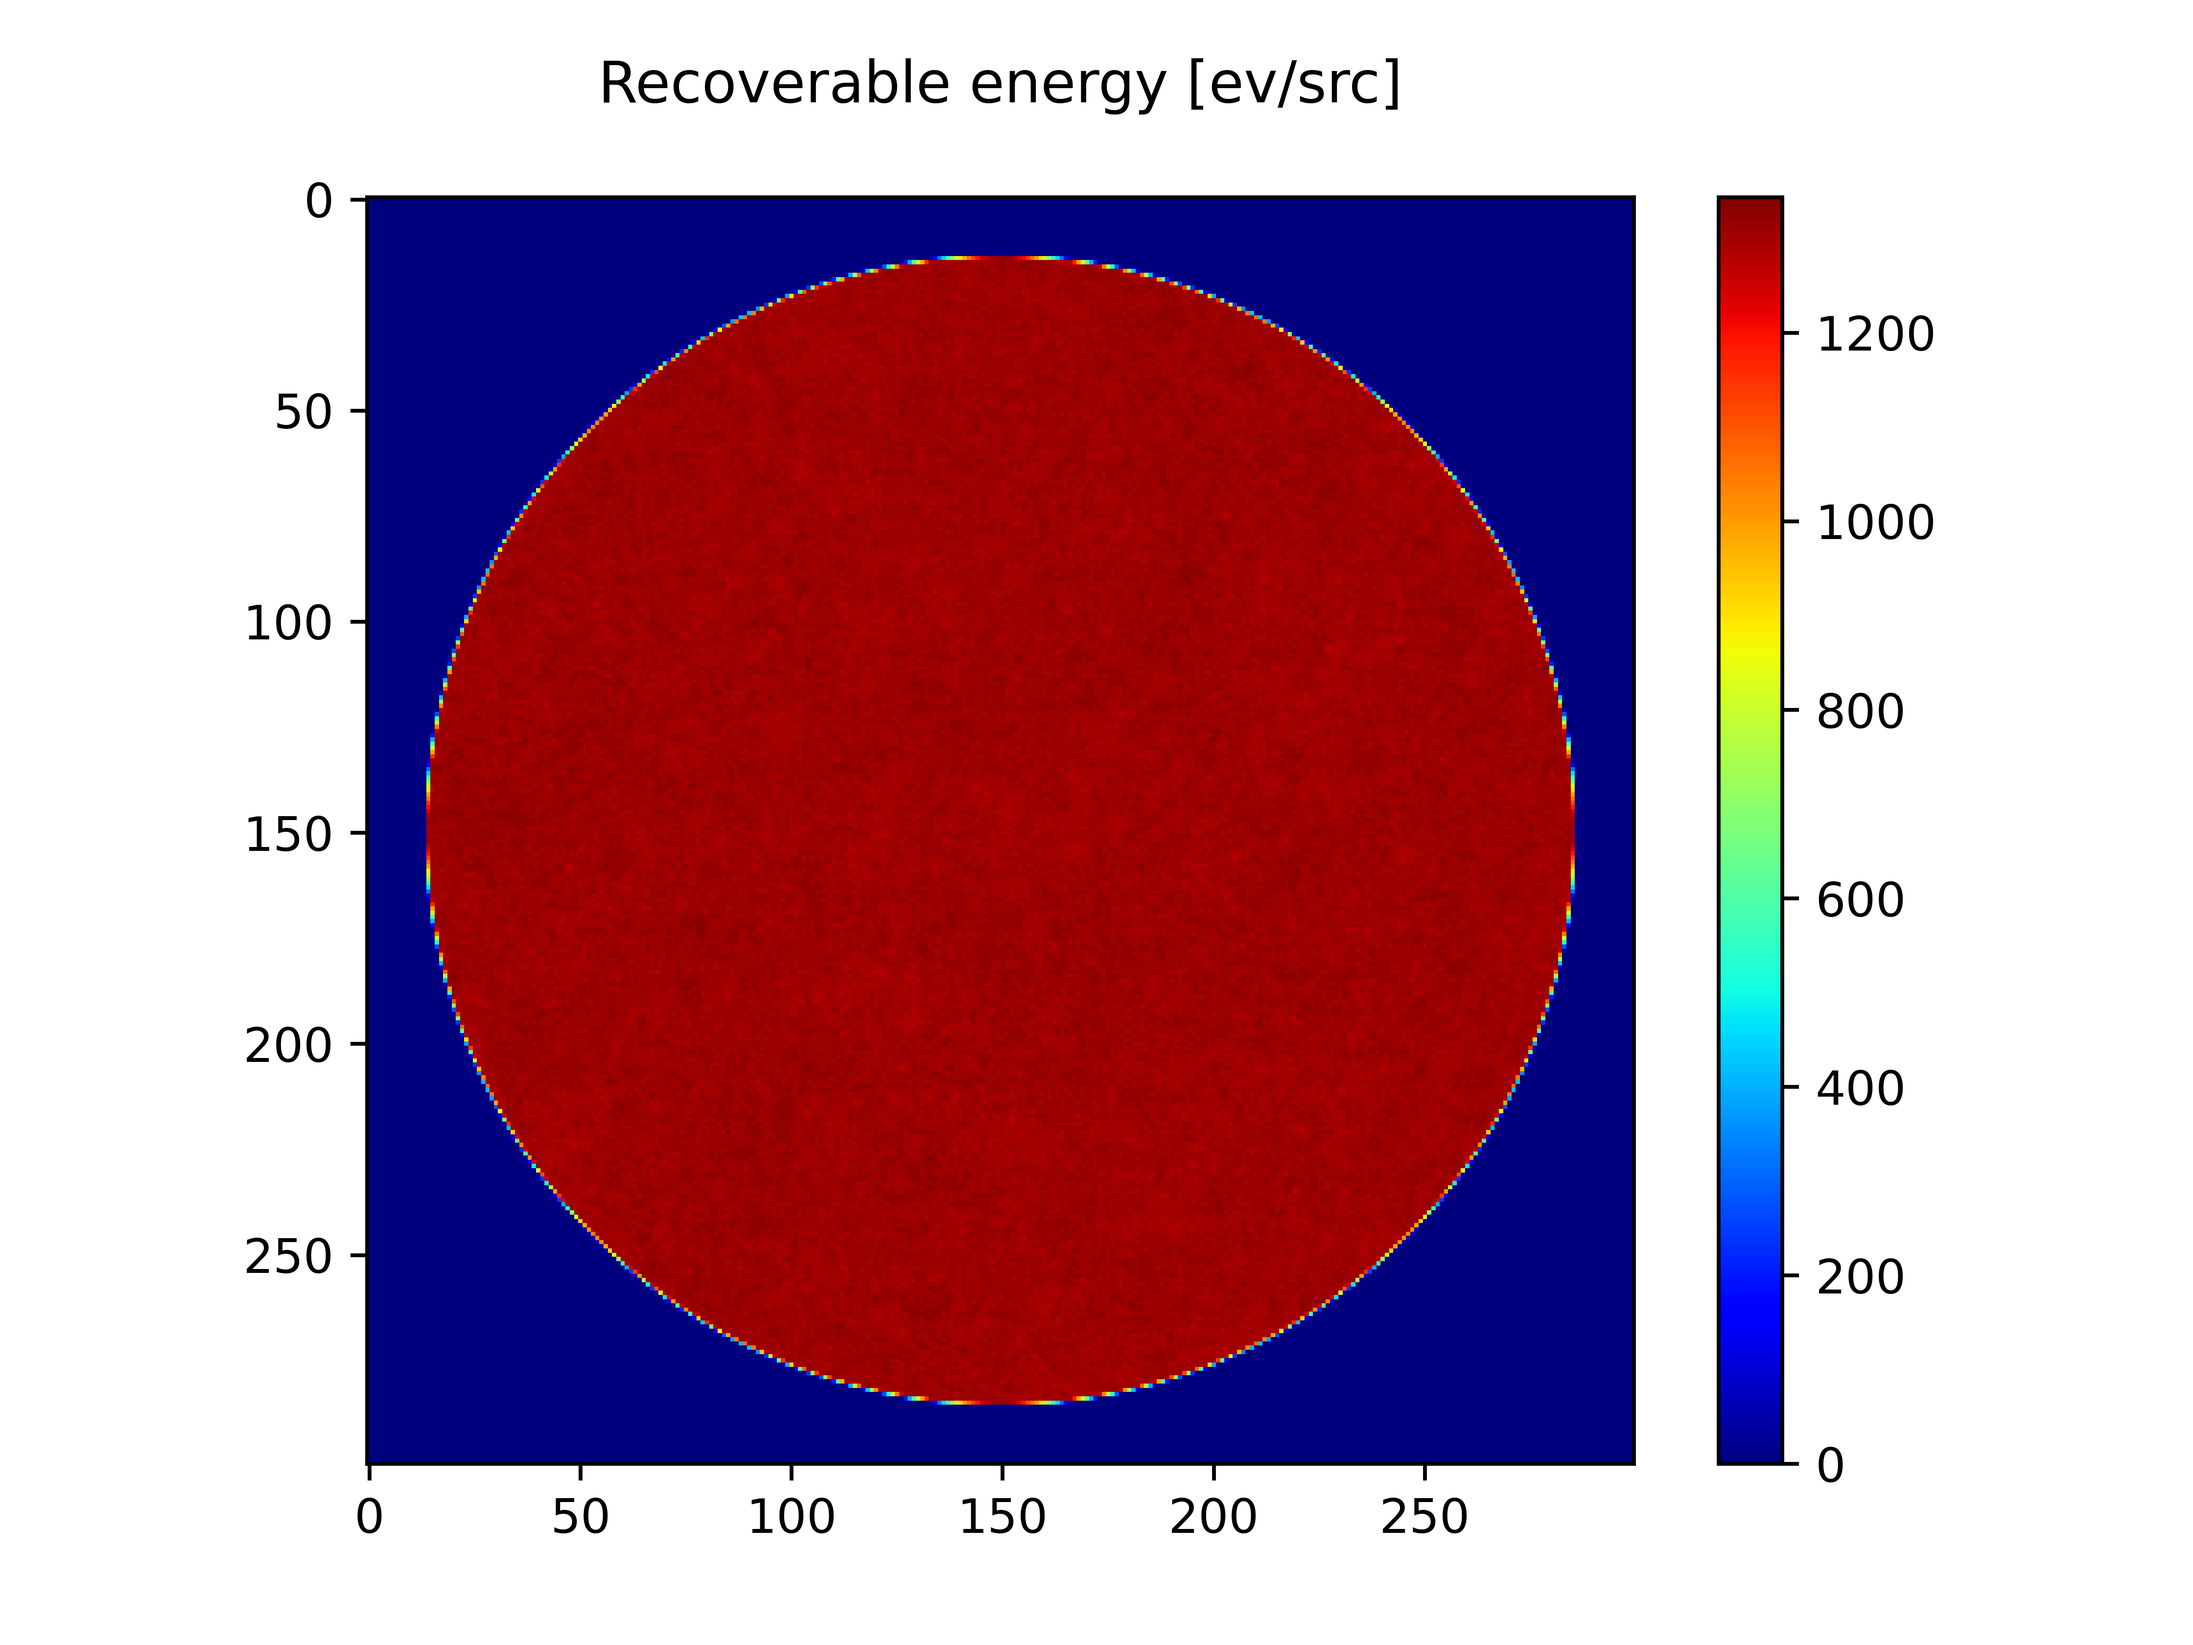
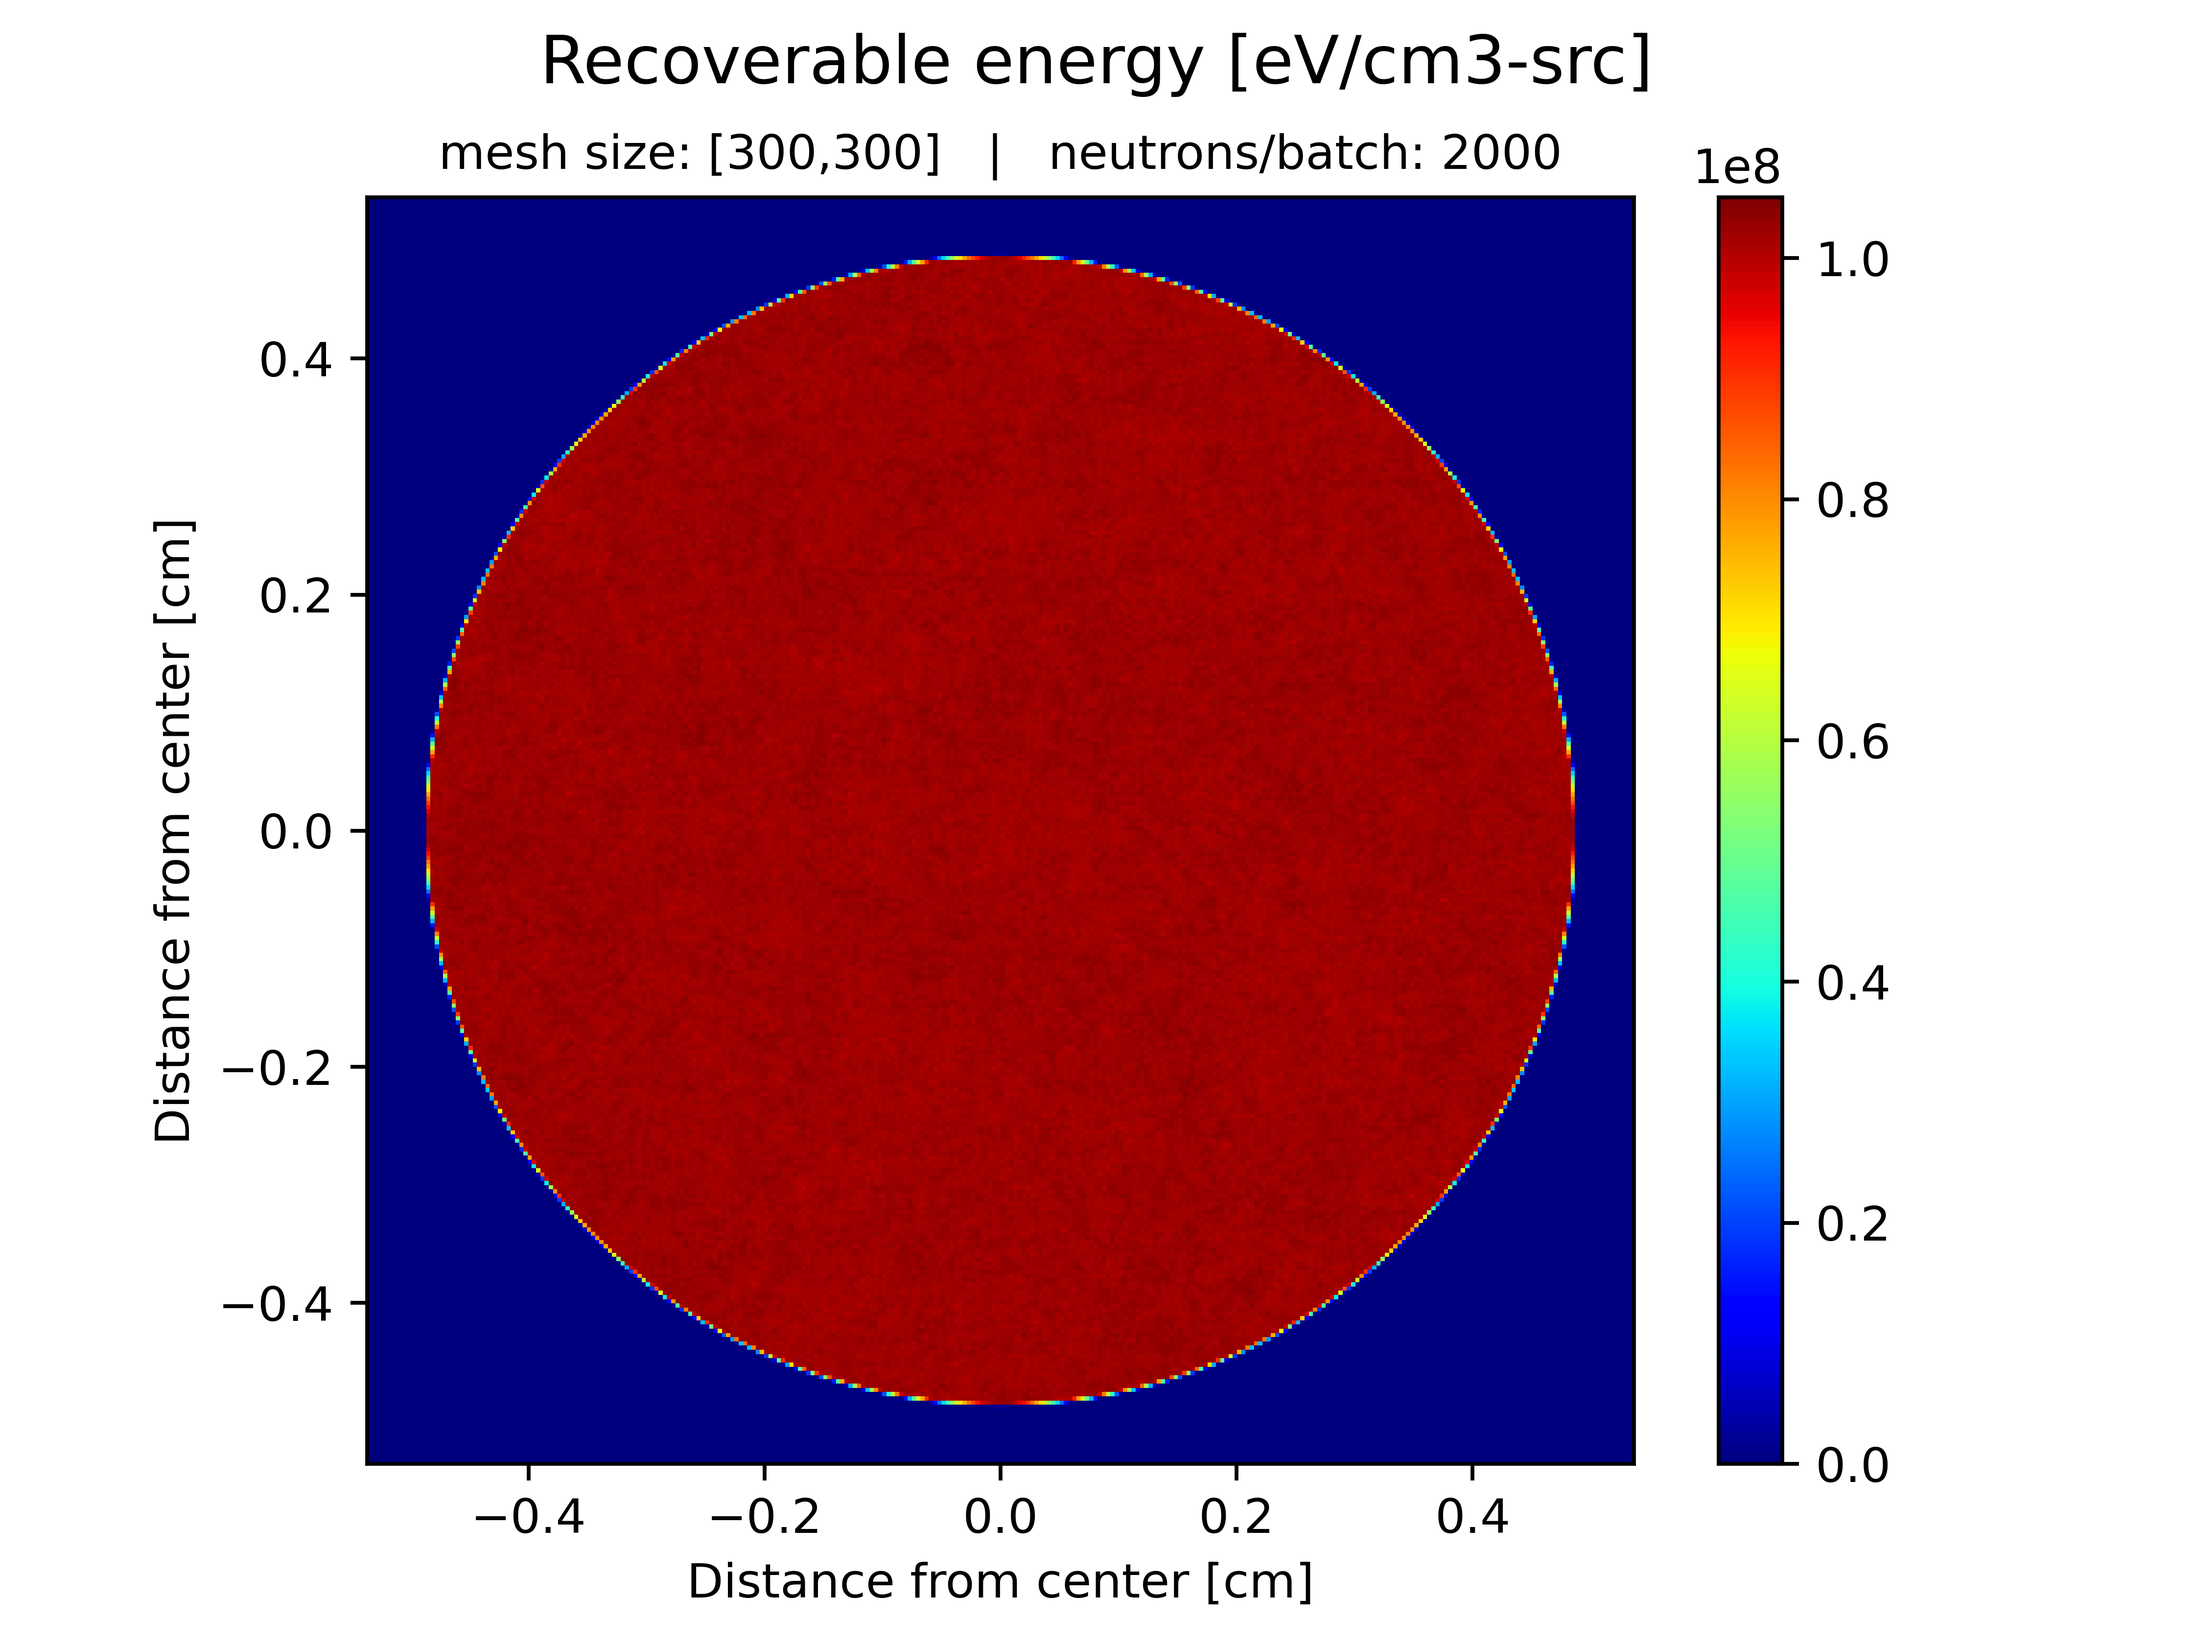
corrected units in SFR_pincell

diff --git a/SFR_pincell/main.py b/SFR_pincell/main.py
@@ -16,27 +16,52 @@ import math
 
 #=========================FUNCTIONS=============================
 
-def plot_radially(radial_data, xlabel, ylabel, title, diag=False, alpha=0.5):
+def mesh_plot(mesh_data,title,filename, reduced=False):
+    if reduced:
+        mesh_dim=red_mesh_dimension
+    else:
+        mesh_dim=mesh_dimension
+    plt.imshow(mesh_data, cmap='jet', origin='lower', extent = [-pitch/2,pitch/2,-pitch/2,pitch/2])
+    plt.suptitle(title,fontsize=14)
+    plt.title('mesh size: [{},{}]   |   neutrons/batch: {}'.format(mesh_dim,mesh_dim,neutrons_per_batch),fontsize=10)
+    plt.xlabel('Distance from center [cm]')
+    plt.ylabel('Distance from center [cm]')
+    plt.colorbar()
+    plt.savefig("images/plots/{}.png".format(filename), dpi=700)
+    plt.clf()
+
+
+def plot_radially(radial_data, ylabel, title, filename, diag=False, alpha=0.5):
     geom_image = mpimg.imread('images/geometry/side_view.ppm')
+    pitch_dim = pitch
+    mesh_dim = mesh_dimension
+    directory = 'horizontal'
     if diag:
         geom_image = mpimg.imread('images/geometry/side_diagonal_view.ppm')
+        pitch_dim = diagonal_pitch
+        directory = 'diagonal'
     fig, axs = plt.subplots(2,1, sharex=True, sharey=True, figsize=(15,10))
-    fig.suptitle('{}'.format(title))
-    axs[1].imshow(geom_image, alpha=alpha, origin='lower', extent=[-pitch/2,pitch/2,0,1.2*np.amax(radial_data)])
-    axs[0].plot(np.linspace(-pitch/2,pitch/2,mesh_dimension),radial_data, 'r-', linewidth=2)
-    axs[1].plot(np.linspace(-pitch/2,pitch/2,mesh_dimension), radial_data, 'r-', linewidth=3)
+    fig.suptitle('{}'.format(title), fontsize=19)
+    axs[0].set_title('mesh size: [{},{}]   |   neutrons/batch: {}'.format(mesh_dim,mesh_dim,neutrons_per_batch),fontsize=14, pad=30)
+    axs[1].imshow(geom_image, alpha=alpha, origin='lower', extent=[-pitch_dim/2,pitch_dim/2,0,1.2*np.amax(radial_data)])
+    axs[0].plot(np.linspace(-pitch_dim/2,pitch_dim/2,mesh_dim),radial_data, 'r-', linewidth=2)
+    axs[1].plot(np.linspace(-pitch_dim/2,pitch_dim/2,mesh_dim), radial_data, 'r-', linewidth=3)
     axs[1].xaxis.tick_top()
     axs[1].xaxis.set_label_position('top')
-    axs[1].set_xlabel('{}'.format(xlabel))
+    axs[1].set_xlabel('Radial Distance [cm]')
     axs[1].set_aspect('auto')
     for ax in axs:
         ax.set_ylabel('{}'.format(ylabel))
+
+    plt.savefig("images/radial_plots/{}/{}.png".format(directory,filename), dpi=700)
+    plt.clf()
 
 
 
 pitch = 1.0730001
 diagonal_pitch = math.sqrt(2)*pitch
 mesh_dimension = 300
+neutrons_per_batch = 2000
 
 #=========================DEFINE MATERIALS==========================
 
@@ -210,7 +235,7 @@ settings = openmc.Settings()
 settings.source = source
 settings.batches = 100
 settings.inactive = 20
-settings.particles = 2000
+settings.particles = neutrons_per_batch
 
 settings.export_to_xml()
 
@@ -251,7 +276,7 @@ tallies.append(t_mesh)
 tallies.export_to_xml()
 
 #==================== RUN SIMULATION ===========================
-openmc.run()
+#openmc.run()
 
 #======================== POST PROCESSING ===========================
 
@@ -270,45 +295,26 @@ plt.clf()
 
 
 tally_mesh = sp.get_tally(name='mesh_tally')
+mesh_cell_volume = (pitch/mesh_dimension)**2
 #fission reaction rate
 fission_rr = tally_mesh.get_slice(scores=['fission'])
 fission_rr.mean.shape = (mesh_dimension,mesh_dimension)
-
-plt.imshow(fission_rr.mean, cmap='jet')
-plt.title('Fission Reaction Rate [reaction/s]', pad=20)
-plt.colorbar()
-plt.savefig("images/plots/fission_RR.png", dpi=700)
-plt.clf()
+mesh_plot(fission_rr.mean/mesh_cell_volume, 'Fission reaction rate [1/cm3-src]', 'fission_rr')
 
 #scattering reaction rate
 elastic_rr = tally_mesh.get_slice(scores=['(n,elastic)'])
 elastic_rr.mean.shape = (mesh_dimension,mesh_dimension)
-
-plt.imshow(elastic_rr.mean, cmap='jet')
-plt.title('Elastic Scattering Reaction Rate [reaction/s]', pad=20)
-plt.colorbar()
-plt.savefig("images/plots/elastic_RR.png", dpi=700)
-plt.clf()
+mesh_plot(elastic_rr.mean/mesh_cell_volume, 'Elastic Scattering Reaction Rate [1/cm3-src]', 'elastic_rr')
 
 #capture reaction rate
 capture_rr = tally_mesh.get_slice(scores=['(n,gamma)'])
 capture_rr.mean.shape = (mesh_dimension,mesh_dimension)
-
-plt.imshow(capture_rr.mean, cmap='jet')
-plt.title('Radiative Capture Reaction Rate [reaction/s]', pad=20)
-plt.colorbar()
-plt.savefig("images/plots/capture_RR.png", dpi=700)
-plt.clf()
+mesh_plot(capture_rr.mean/mesh_cell_volume, 'Radiative Capture Reaction Rate [1/cm3-src]', 'capture_rr')
 
 #recoverable energy
 rec_ene = tally_mesh.get_slice(scores=['fission-q-recoverable'])
 rec_ene.mean.shape = (mesh_dimension,mesh_dimension)
-
-plt.imshow(rec_ene.mean, cmap='jet')
-plt.title('Recoverable energy [ev/src]', pad=20)
-plt.colorbar()
-plt.savefig("images/plots/recoverable_energy.png", dpi=700)
-plt.clf()
+mesh_plot(rec_ene.mean/mesh_cell_volume, 'Recoverable energy [eV/cm3-src]', 'recoverable_energy')
 
 
 #RADIAL_ORIZONTAL
@@ -319,23 +325,14 @@ radial_horiz_elastic = elastic_rr.mean[radial_index,:]
 radial_horiz_recene = rec_ene.mean[radial_index,:]
 
 
-plot_radially(radial_horiz_fission, title='Radial horizontal distribution of fission reaction rate', xlabel='Radial Distance [cm]', ylabel='Fission reaction rate [1/s-src]')
-plt.savefig("images/radial_plots/horizontal/fission_rr.png", dpi=700)
-plt.clf()
+plot_radially(radial_horiz_fission/mesh_cell_volume, title='Radial horizontal distribution of fission reaction rate', ylabel='Fission reaction rate [1/cm3-src]', filename='fission_rr')
 
+plot_radially(radial_horiz_capture/mesh_cell_volume, title='Radial horizontal distribution of (n,gamma) reaction rate', ylabel='(n,gamma) reaction rate [1/cm3-src]', filename='capture_rr')
 
-plot_radially(radial_horiz_capture, title='Radial horizontal distribution of (n,gamma) reaction rate', xlabel='Radial Distance [cm]', ylabel='(n,gamma) reaction rate [1/s-src]')
-plt.savefig("images/radial_plots/horizontal/capture_rr.png", dpi=700)
-plt.clf()
+plot_radially(radial_horiz_elastic/mesh_cell_volume, title='Radial horizontal distribution of elastic scattering reaction rate', ylabel='Elastic Scattering reaction rate [1/cm3-src]', filename='elastic_rr')
 
+plot_radially(radial_horiz_recene/mesh_cell_volume, title='Radial horizontal distribution of recoverable energy', ylabel='Recoverable energy [eV/cm3-src]', filename='recoverable_energy')
 
-plot_radially(radial_horiz_elastic, title='Radial horizontal distribution of elastic scattering reaction rate', xlabel='Radial Distance [cm]', ylabel='Elastic Scattering reaction rate [1/s-src]')
-plt.savefig("images/radial_plots/horizontal/elastic_rr.png", dpi=700)
-plt.clf()
-
-plot_radially(radial_horiz_recene, title='Radial horizontal distribution of recoverable energy', xlabel='Radial Distance [cm]', ylabel='Recoverable energy [eV/src]')
-plt.savefig("images/radial_plots/horizontal/recoverable_energy_rr.png", dpi=700)
-plt.clf()
 
 #RADIAL_DIAGONAL
 radial_diag_fission = np.diagonal(fission_rr.mean)
@@ -344,20 +341,10 @@ radial_diag_elastic = np.diagonal(elastic_rr.mean)
 radial_diag_recene = np.diagonal(rec_ene.mean)
 
 
-plot_radially(radial_diag_fission, title='Radial diagonal distribution of fission reaction rate', xlabel='Radial Distance [cm]', ylabel='Fission reaction rate [1/s-src]', diag=True)
-plt.savefig("images/radial_plots/diagonal/fission_rr_diag.png", dpi=700)
-plt.clf()
+plot_radially(radial_diag_fission/mesh_cell_volume, title='Radial diagonal distribution of fission reaction rate', ylabel='Fission reaction rate [1/cm3-src]', diag=True, filename='fission_rr')
 
+plot_radially(radial_diag_capture/mesh_cell_volume, title='Radial diagonal distribution of (n,gamma) reaction rate', ylabel='(n,gamma) reaction rate [1/cm3-src]', diag=True, filename='capture_rr')
 
-plot_radially(radial_diag_capture, title='Radial diagonal distribution of (n,gamma) reaction rate', xlabel='Radial Distance [cm]', ylabel='(n,gamma) reaction rate [1/s-src]', diag=True)
-plt.savefig("images/radial_plots/diagonal/capture_rr_diag.png", dpi=700)
-plt.clf()
+plot_radially(radial_diag_elastic/mesh_cell_volume, title='Radial diagonal distribution of elastic scattering reaction rate', ylabel='Elastic Scattering reaction rate [1/cm3-src]', diag=True, filename='elastic_rr')
 
-
-plot_radially(radial_diag_elastic, title='Radial diagonal distribution of elastic scattering reaction rate', xlabel='Radial Distance [cm]', ylabel='Elastic Scattering reaction rate [1/s-src]', diag=True)
-plt.savefig("images/radial_plots/diagonal/elastic_rr_diag.png", dpi=700)
-plt.clf()
-
-plot_radially(radial_diag_recene, title='Radial diagonal distribution of recoverable energy', xlabel='Radial Distance [cm]', ylabel='Recoverable energy [eV/src]', diag=True)
-plt.savefig("images/radial_plots/diagonal/recoverable_energy_rr_diag.png", dpi=700)
-plt.clf()
+plot_radially(radial_diag_recene/mesh_cell_volume, title='Radial diagonal distribution of recoverable energy', ylabel='Recoverable energy [eV/cm3-src]', diag=True, filename='recoverable_energy')
